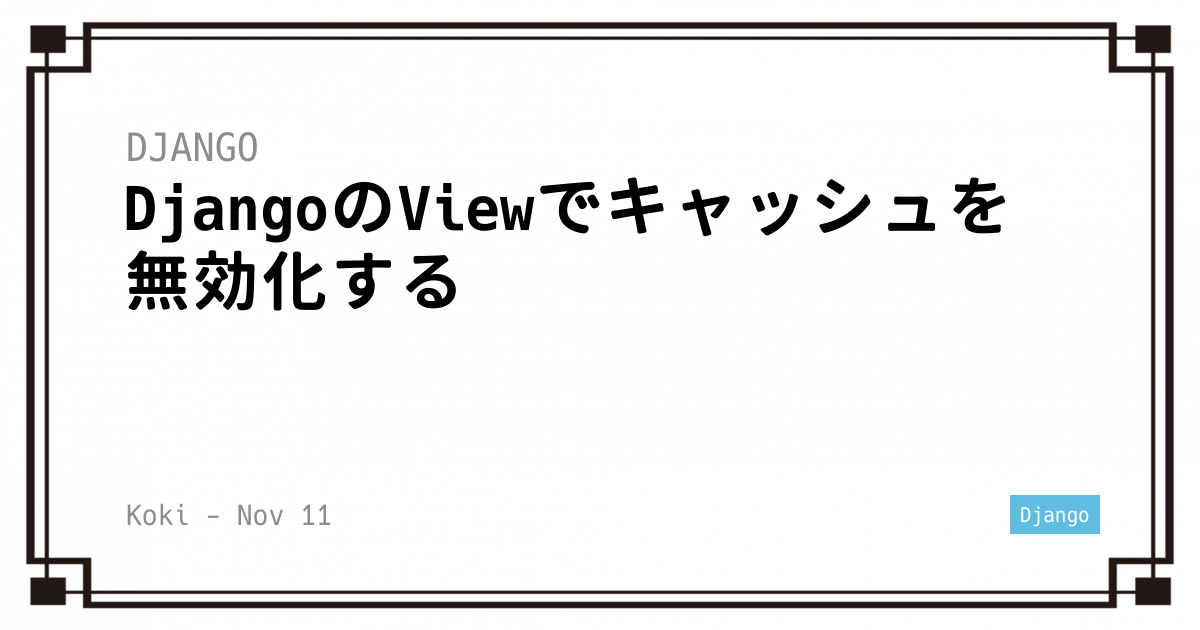
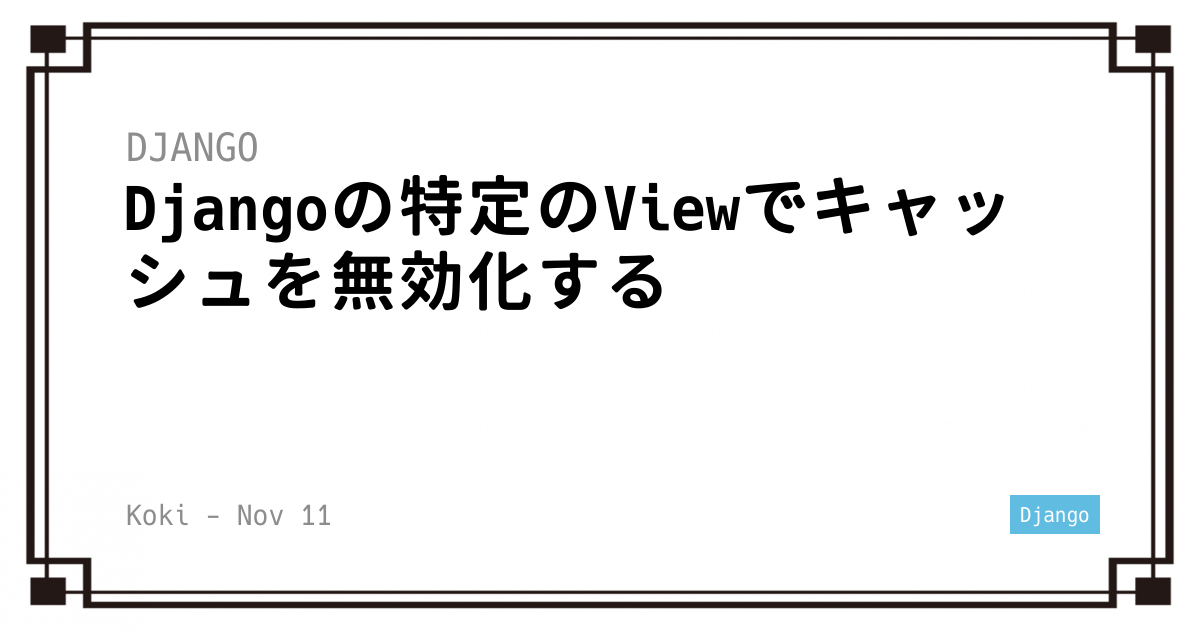
update the disable cache on django article

Changed region(s): [[0.0925, 0.2714, 0.8325, 0.5127]]

diff --git a/content/posts/django/disable-cache-on-django.ja.md b/content/posts/django/disable-cache-on-django.ja.md
@@ -4,12 +4,12 @@ categories = ["Django"]
 tags = ["Django"]
 date = 2022-11-11T16:43:44+09:00
 linktitle = ""
-title = "DjangoのViewでキャッシュを無効化する"
-description = "この記事では、DjangoのViewでキャッシュを無効化する方法について説明します。"
+title = "Djangoの特定のViewでキャッシュを無効化する"
+description = "この記事では、Djangoの特定のViewでキャッシュを無効化する方法について説明します。"
 type = "post"
 +++
 
-この記事では、DjangoのViewでキャッシュを無効化する方法について説明します。  
+この記事では、Djangoの特定のViewでキャッシュを無効化する方法について説明します。  
 Google Chrome, Microsoft Edge, Firefoxにて動作確認済みです。
 
 この記事の内容です。
@@ -20,7 +20,7 @@ Google Chrome, Microsoft Edge, Firefoxにて動作確認済みです。
 - <font color="#1111cc">[対象読者](#%E5%AF%BE%E8%B1%A1%E8%AA%AD%E8%80%85)</font>
 - <font color="#1111cc">[環境](#%E7%92%B0%E5%A2%83)</font>
 - <font color="#1111cc">[前提条件](#%E5%89%8D%E6%8F%90%E6%9D%A1%E4%BB%B6)</font>
-- <font color="#1111cc">[DjangoのViewでキャッシュを無効化する方法](#django%E3%81%AEview%E3%81%A7%E3%82%AD%E3%83%A3%E3%83%83%E3%82%B7%E3%83%A5%E3%82%92%E7%84%A1%E5%8A%B9%E5%8C%96%E3%81%99%E3%82%8B%E6%96%B9%E6%B3%95)</font>
+- <font color="#1111cc">[Djangoの特定のViewでキャッシュを無効化する方法](#django%E3%81%AE%E7%89%B9%E5%AE%9A%E3%81%AEview%E3%81%A7%E3%82%AD%E3%83%A3%E3%83%83%E3%82%B7%E3%83%A5%E3%82%92%E7%84%A1%E5%8A%B9%E5%8C%96%E3%81%99%E3%82%8B%E6%96%B9%E6%B3%95)</font>
 
 <!-- END doctoc generated TOC please keep comment here to allow auto update -->
 
@@ -39,7 +39,7 @@ Google Chrome, Microsoft Edge, Firefoxにて動作確認済みです。
 - なし
 
 
-## DjangoのViewでキャッシュを無効化する方法
+## Djangoの特定のViewでキャッシュを無効化する方法
 
 まず最初に、 以下のコードを追加し必要なものをインポートします。
 ```python
@@ -54,4 +54,4 @@ class HogeView(LoginRequiredMixin, FormView):
     ...
 ```
 
-これだけでViewのキャッシュを無効化できます。
+これだけで、特定のViewのキャッシュを無効化できます。
